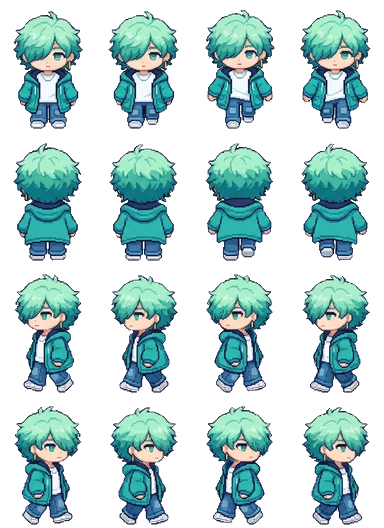
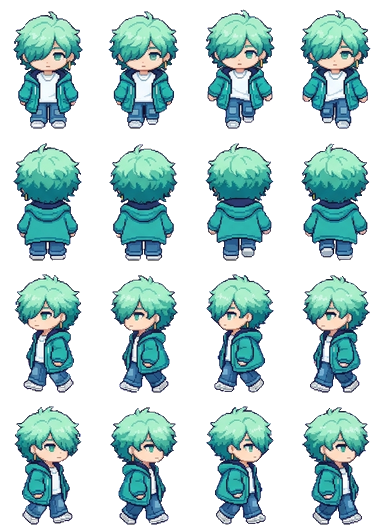
Fix Kanato side walk facing; add pair lines for 12 more couples; rename Celty
Claude-Session: https://claude.ai/code/session_01KaPsBYLrtbRfMYNG2xeBCK

Changed region(s): [[0.5312, 0.5152, 0.7188, 1.0]]

diff --git a/docs/app.js b/docs/app.js
@@ -65,7 +65,7 @@ function spr(cat, k, col, sc) {
   return `<div class="clip" style="width:${it[2] * sc}px;height:${it[3] * sc}px;POS"><img class="px" src="assets/decor/${cat}.png" alt="" style="width:${S.sw * sc}px;height:${S.sh * sc}px;margin-left:${-col * S.cw * sc}px;margin-top:${-i * S.ch * sc}px"></div>`;
 }
 const icon = (k, sz) => `<span class="itm" style="width:${sz}px;height:${sz}px"><img class="px" src="assets/ui/items.png" alt="" style="width:${IT.length * sz}px;height:${sz}px;margin-left:${-ITM[k].i * sz}px"></span>`;
-const face = (id, w) => { const s = w / 96; return `<img class="px" src="assets/ch/${id}.webp?v=17" alt="" style="position:absolute;width:${384 * s}px;height:${528 * s}px;left:${-(96 * s - w) / 2}px;top:0;max-width:none">`; };
+const face = (id, w) => { const s = w / 96; return `<img class="px" src="assets/ch/${id}.webp?v=18" alt="" style="position:absolute;width:${384 * s}px;height:${528 * s}px;left:${-(96 * s - w) / 2}px;top:0;max-width:none">`; };
 
 // ---------- 저장 ----------
 let fb = null, user = null, S = null, saveT = null;
@@ -133,7 +133,7 @@ function sleepHTML(id, r, dy) {
   const pos = r.a && r.a[0] === 'bed' ? 'left:3%;bottom:20%' : r.b && r.b[0] === 'bed' ? 'right:3%;bottom:20%' : 'left:calc(50% - 44px);bottom:6%';
   const s = 36 / 96;
   return `<div style="position:absolute;width:88px;height:56px;${pos};z-index:${dy ? 4 : 5};${dy ? `transform:translate(12px,${dy}px)` : ''}"><div style="position:absolute;inset:0;filter:brightness(.22)">
-    <div style="position:absolute;left:11px;top:1px;width:36px;height:50px;overflow:hidden;transform:rotate(-90deg)"><img class="px" src="assets/ch/${id}.webp?v=17" alt="" style="width:${384 * s}px;height:${528 * s}px;max-width:none;margin-top:${-132 * s}px"></div>
+    <div style="position:absolute;left:11px;top:1px;width:36px;height:50px;overflow:hidden;transform:rotate(-90deg)"><img class="px" src="assets/ch/${id}.webp?v=18" alt="" style="width:${384 * s}px;height:${528 * s}px;max-width:none;margin-top:${-132 * s}px"></div>
     <div style="position:absolute;left:19px;top:19px;width:67px;height:29px;border:2px solid var(--ink);border-radius:8px 6px 4px 4px;background:#8ccff5;background-image:repeating-linear-gradient(90deg,transparent 0 10px,rgba(255,255,255,.5) 10px 13px)"></div></div>
     ${dy ? '' : '<span class="emo" style="left:8px;top:-22px;color:#5b6bd6">Z z z</span>'}</div>`;
 }
@@ -143,8 +143,8 @@ function roomHTML(id, o, scale) {
     <div class="floor" style="background-color:${PAL[r.fc][1]};background-image:${tileUrl('floor', r.fl)}"></div>
     ${slot('deco', r.dc, 'left:6%;top:6%')}${slot('furn', r.a, 'left:3%;bottom:20%')}${slot('furn', r.b, 'right:3%;bottom:20%')}${slot('prop', r.pr, 'left:28%;bottom:4%;z-index:2')}
     ${id && o.sleeping && g ? sleepHTML(g, r, -16) : ''}${id && o.sleeping ? sleepHTML(id, r) : ''}${id && o.job ? `<div style="position:absolute;left:50%;top:38%;transform:translateX(-50%);z-index:5;background:#fff;border:3px solid var(--ink);border-radius:10px;padding:6px 10px;font-size:11px;text-align:center;line-height:1.5"><img src="assets/ui/ic_job.png" alt="" style="width:18px;vertical-align:-4px"> ${esc(JOB_NAME[id])} 알바 중${g ? `<br><small>${esc(nameOf(g))}도 같이</small>` : ''}<br><b id="jobleft">${timeLeft(o.job.until)}</b></div>` : ''}
-    ${id ? `<div class="shadow" id="shd" ${o.sleeping || o.job ? 'style="display:none"' : ''}></div><div class="man" id="man" ${o.sleeping || o.job ? 'style="display:none"' : ''}><img class="px" src="assets/ch/${id}.webp?v=17" alt="${esc(nameOf(id))}"></div><span class="emo" id="emo" hidden></span><span class="mumble" id="mum" hidden></span>` : ''}
-    ${g ? `<div class="shadow" id="gshd" ${hideG}></div><div class="man" id="gman" ${hideG}><img class="px" src="assets/ch/${g}.webp?v=17" alt="${esc(nameOf(g))}"></div><span class="emo" id="gemo" hidden></span><span class="mumble gmum" id="gmum" hidden></span>` : ''}
+    ${id ? `<div class="shadow" id="shd" ${o.sleeping || o.job ? 'style="display:none"' : ''}></div><div class="man" id="man" ${o.sleeping || o.job ? 'style="display:none"' : ''}><img class="px" src="assets/ch/${id}.webp?v=18" alt="${esc(nameOf(id))}"></div><span class="emo" id="emo" hidden></span><span class="mumble" id="mum" hidden></span>` : ''}
+    ${g ? `<div class="shadow" id="gshd" ${hideG}></div><div class="man" id="gman" ${hideG}><img class="px" src="assets/ch/${g}.webp?v=18" alt="${esc(nameOf(g))}"></div><span class="emo" id="gemo" hidden></span><span class="mumble gmum" id="gmum" hidden></span>` : ''}
     ${o.sleeping ? `<div class="night"></div><div class="sleepleft">쿨쿨 · 일어나기까지 <b id="sleepleft">${timeLeft(wakeAt(o)).replace(' 남음', '')}</b></div>` : ''}
   </div>`;
 }
@@ -367,7 +367,7 @@ function startTrip(k) {
   if (tg) lines[1] = `${nameOf(tg)}: ${withHim(sub(pick(GLM[tg].trip), o, c.n), tg)}`;
   const n = (FR[id] || [4, 4, 4, 4])[3], el = document.createElement('div'); el.className = 'tripview';
   el.innerHTML = `<div class="tsay"> </div><div class="tstage" style="background-image:url(assets/travel/${k}.png?v=2)"><div class="tplace">${esc(c.n)}</div>
-    <div class="twalker"><img class="px" src="assets/ch/${id}.webp?v=17" alt=""></div>${tg ? `<div class="twalker tgirl"><img class="px" src="assets/ch/${tg}.webp?v=17" alt=""></div>` : ''}<span class="emo tjoy">♪</span></div>
+    <div class="twalker"><img class="px" src="assets/ch/${id}.webp?v=18" alt=""></div>${tg ? `<div class="twalker tgirl"><img class="px" src="assets/ch/${tg}.webp?v=18" alt=""></div>` : ''}<span class="emo tjoy">♪</span></div>
     <div class="tbar"><i></i></div><button class="btn white tskip" data-tskip="1">바로 돌아오기</button>`;
   document.body.appendChild(el);
   const gimg = el.querySelector('.tgirl img'), gn = tg ? (FR[tg] || [4, 4, 4, 4])[3] : 1;
@@ -578,7 +578,7 @@ setInterval(() => { if (S && user) { tickTime(); save(); } }, 60000);
 // ---------- 시작 ----------
 (async () => {
   app.innerHTML = '<div class="start"><div class="egg"><div class="scr"></div></div><div class="note">불러오는 중....</div></div>';
-  const [c, t, f, it, mu, ct, tv, gl] = await Promise.all(['data/chars.json', 'data/talk.json', 'data/frames.json', 'data/items.json', 'data/mumble.json', 'data/countries.json', 'data/travel.json', 'data/girls.json'].map(u => fetch(u + '?v=59').then(r => r.ok ? r.json() : {})));
+  const [c, t, f, it, mu, ct, tv, gl] = await Promise.all(['data/chars.json', 'data/talk.json', 'data/frames.json', 'data/items.json', 'data/mumble.json', 'data/countries.json', 'data/travel.json', 'data/girls.json'].map(u => fetch(u + '?v=60').then(r => r.ok ? r.json() : {})));
   CH = c; CHM = Object.fromEntries(c.map(x => [x.id, x])); TALK = t; FR = f; IT = it; ITM = Object.fromEntries(it.map(x => [x.k, x])); MUM = mu; CTRY = ct; TRV = tv; GL = Array.isArray(gl) ? gl : []; GLM = Object.fromEntries(GL.map(x => [x.id, x]));
   try { await initFirebase(); } catch (e) { console.warn('Firebase 연결 실패, 기기 저장으로', e); fb = null; }
   if (fb) {

diff --git a/docs/index.html b/docs/index.html
@@ -17,6 +17,6 @@
 <main id="app" aria-live="polite"></main>
 <div id="toast" role="status" hidden></div>
 <script src="firebase-config.js?v=3"></script>
-<script type="module" src="app.js?v=59"></script>
+<script type="module" src="app.js?v=60"></script>
 </body>
 </html>

diff --git a/tk_chars.py b/tk_chars.py
@@ -38,7 +38,7 @@ SIDE = {
     'saiki':          dict(left='mirror', right=[(2, 2), (2, 3), (2, 4), (3, 2)]),
     'nozaki':         dict(left=[(3, 0), (3, 1), (3, 2)], right=[(2, 0), (2, 1), (2, 3), (2, 4)]),
     'shima':          dict(right=[(2, 0), (3, 2), (2, 3), (3, 3)], left='mirror'),
-    'mint':           dict(left=[(2, 1), (2, 2), (2, 3), (2, 4)], right=None, outline=True),
+    'mint':           dict(left=[(2, 1), (2, 2), (3, 1), (2, 4)], right=None, outline=True),
     'karate':         dict(left=[(2, 1), (2, 2), (3, 0), (3, 1)], right=[(2, 4), (3, 3), (3, 4)], fill_inside=True),
 }
 PHASE_ALL = True
